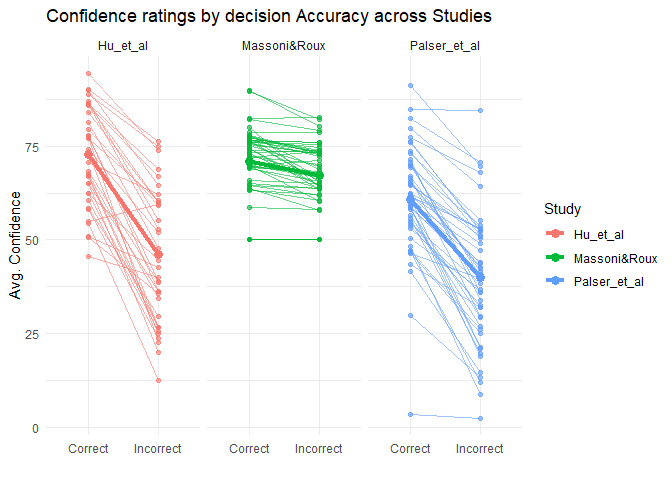
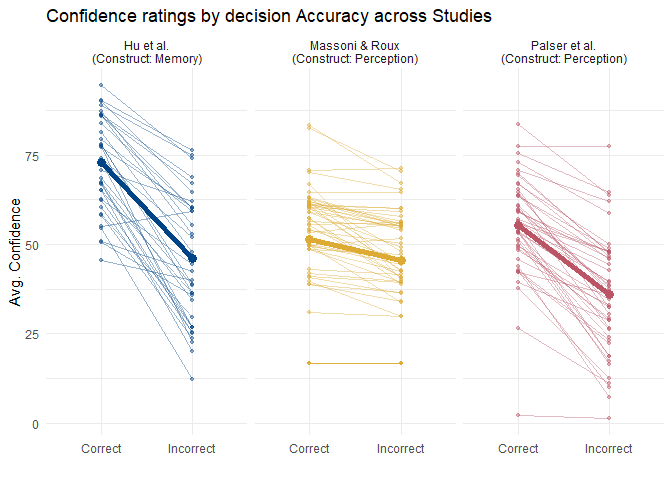
revised solution

diff --git a/Projects/JakobRaatschen/ArminBurkhardt.md b/Projects/JakobRaatschen/ArminBurkhardt.md
@@ -1,86 +1,15 @@
 ## Cleaning the data
 
-### Study 1
+The data for all 3 studies is cleaned, Confidences are rescaled and the
+data is merged into new dataframes.
 
-    massoni <- massoni %>%
-      filter(Subj_idx >= 67, Subj_idx <= 120) %>%                    # second study only
-      mutate(Study_id = "Massoni&Roux")                              # add study_id column
-
-    # calculate average performance per subject
-    massoni_subj_perf <- massoni %>%
-      group_by(Subj_idx, Study_id) %>%                               # group by subject and keep study_id
-      summarise(average_performance = mean(Accuracy, na.rm = TRUE))  # calc average performance
-
-### Study 2
-
-    palser <- palser %>%
-      drop_na() %>%                                                  # exclude responses with exceeded deadline
-      filter(Condition == "Baseline") %>%                            # following the suggestion to make this study more comparable to the others
-      mutate(Study_id = "Palser_et_al",                              # add study_id column
-             Accuracy = ifelse(Response == Stimulus, 1, 0))          # add accuracy column
-
-    # again calculate average performance per subject, same as above
-    palser_subj_perf <- palser %>%
-      group_by(Subj_idx, Study_id) %>%
-      summarise(average_performance = mean(Accuracy, na.rm = TRUE))
-
-### Study 3
-
-    # following a similar pattern as above:
-    hu <- hu %>%
-      mutate(Study_id = "Hu_et_al")
-
-    hu_subj_perf <- hu %>%
-      group_by(Subj_idx, Study_id) %>%
-      summarise(average_performance = mean(Accuracy, na.rm = TRUE))
-
-### All studies
-
-Rescaling of the confidence ratings to 0 to 100:
-
-    massoni <- massoni %>%
-      mutate(Confidence = Confidence * 100)
-
-    # palser is already scaled well, except for the bounds 0 and 99, but Ill just ignore that
-
-    hu <- hu %>%
-      mutate(Confidence = (Confidence - 1) / 5 * 100) # rescale from 1-6 to 0-100
-
-### Merging the datasets to aggregated dataframes:
-
-Firstly, shift subject indices to avoid overlap:
-
-    palser <- palser %>%  
-      mutate(Subj_idx = Subj_idx + max(massoni$Subj_idx)) # shift by largest massoni subject index
-
-    hu <- hu %>%
-      mutate(Subj_idx = Subj_idx + max(palser$Subj_idx))  # shift by largest palser subject index
-
-Now merge the datasets into two new dataframes:
-
-    select_relevant <- function(df) {
-      df %>%
-        select(Subj_idx, Study_id, Accuracy, Confidence)
-    }
-
-    confidence <- bind_rows(
-      select_relevant(massoni),
-      select_relevant(palser),
-      select_relevant(hu)
-    )
-
-    performance <- bind_rows(
-      massoni_subj_perf,
-      palser_subj_perf,
-      hu_subj_perf
-    )
-
-resulting in these two final dataframes:
+Resulting in these two final dataframes:
 
 <table>
 <thead>
 <tr>
 <th style="text-align: right;">Subj_idx</th>
+<th style="text-align: right;">Orig_idx</th>
 <th style="text-align: left;">Study_id</th>
 <th style="text-align: right;">Accuracy</th>
 <th style="text-align: right;">Confidence</th>
@@ -89,39 +18,45 @@ resulting in these two final dataframes:
 <tbody>
 <tr>
 <td style="text-align: right;">67</td>
+<td style="text-align: right;">67</td>
 <td style="text-align: left;">Massoni&amp;Roux</td>
 <td style="text-align: right;">1</td>
-<td style="text-align: right;">80</td>
+<td style="text-align: right;">66.66667</td>
 </tr>
 <tr>
+<td style="text-align: right;">67</td>
 <td style="text-align: right;">67</td>
 <td style="text-align: left;">Massoni&amp;Roux</td>
 <td style="text-align: right;">0</td>
-<td style="text-align: right;">85</td>
+<td style="text-align: right;">75.00000</td>
 </tr>
 <tr>
 <td style="text-align: right;">67</td>
-<td style="text-align: left;">Massoni&amp;Roux</td>
-<td style="text-align: right;">1</td>
-<td style="text-align: right;">80</td>
-</tr>
-<tr>
 <td style="text-align: right;">67</td>
 <td style="text-align: left;">Massoni&amp;Roux</td>
 <td style="text-align: right;">1</td>
-<td style="text-align: right;">75</td>
+<td style="text-align: right;">66.66667</td>
 </tr>
 <tr>
+<td style="text-align: right;">67</td>
+<td style="text-align: right;">67</td>
+<td style="text-align: left;">Massoni&amp;Roux</td>
+<td style="text-align: right;">1</td>
+<td style="text-align: right;">58.33333</td>
+</tr>
+<tr>
+<td style="text-align: right;">67</td>
 <td style="text-align: right;">67</td>
 <td style="text-align: left;">Massoni&amp;Roux</td>
 <td style="text-align: right;">0</td>
-<td style="text-align: right;">80</td>
+<td style="text-align: right;">66.66667</td>
 </tr>
 <tr>
 <td style="text-align: right;">67</td>
+<td style="text-align: right;">67</td>
 <td style="text-align: left;">Massoni&amp;Roux</td>
 <td style="text-align: right;">1</td>
-<td style="text-align: right;">75</td>
+<td style="text-align: right;">58.33333</td>
 </tr>
 </tbody>
 </table>
@@ -130,6 +65,7 @@ resulting in these two final dataframes:
 <thead>
 <tr>
 <th style="text-align: right;">Subj_idx</th>
+<th style="text-align: right;">Orig_idx</th>
 <th style="text-align: left;">Study_id</th>
 <th style="text-align: right;">average_performance</th>
 </tr>
@@ -137,30 +73,36 @@ resulting in these two final dataframes:
 <tbody>
 <tr>
 <td style="text-align: right;">67</td>
+<td style="text-align: right;">67</td>
 <td style="text-align: left;">Massoni&amp;Roux</td>
 <td style="text-align: right;">0.58</td>
 </tr>
 <tr>
+<td style="text-align: right;">68</td>
 <td style="text-align: right;">68</td>
 <td style="text-align: left;">Massoni&amp;Roux</td>
 <td style="text-align: right;">0.66</td>
 </tr>
 <tr>
 <td style="text-align: right;">69</td>
+<td style="text-align: right;">69</td>
 <td style="text-align: left;">Massoni&amp;Roux</td>
 <td style="text-align: right;">0.54</td>
 </tr>
 <tr>
+<td style="text-align: right;">70</td>
 <td style="text-align: right;">70</td>
 <td style="text-align: left;">Massoni&amp;Roux</td>
 <td style="text-align: right;">0.70</td>
 </tr>
 <tr>
 <td style="text-align: right;">71</td>
+<td style="text-align: right;">71</td>
 <td style="text-align: left;">Massoni&amp;Roux</td>
 <td style="text-align: right;">0.60</td>
 </tr>
 <tr>
+<td style="text-align: right;">72</td>
 <td style="text-align: right;">72</td>
 <td style="text-align: left;">Massoni&amp;Roux</td>
 <td style="text-align: right;">0.66</td>
@@ -173,15 +115,10 @@ resulting in these two final dataframes:
 Firstly, filter out all subjects that have only correct or only
 incorrect responses.
 
-    subjects_to_include <- confidence %>%
-      group_by(Subj_idx) %>%
-      summarise(n_correct   = sum(Accuracy == 1),
-                n_incorrect = sum(Accuracy == 0)) %>%
-      filter(n_correct > 0, n_incorrect > 0) %>%
-      pull(Subj_idx)
-
     confidence_filtered <- confidence %>%
-      filter(Subj_idx %in% subjects_to_include)
+      group_by(Subj_idx) %>%
+      filter(sum(Accuracy == 1) > 0, sum(Accuracy == 0) > 0) %>%
+      ungroup()
 
 Now the means per subject and study can be calculated:
 
@@ -191,12 +128,12 @@ Now the means per subject and study can be calculated:
 
 
     confidence_means_individual <- confidence_filtered %>%
-      group_by(Subj_idx, Study_id, Label) %>%
+      group_by(Subj_idx, Study_id, Label, Title) %>%
       summarise(mean_conf = mean(Confidence, na.rm = TRUE))
 
 
     confidence_means_group <- confidence_filtered %>%
-      group_by(Study_id, Label) %>%
+      group_by(Study_id, Label, Title) %>%
       summarise(mean_conf = mean(Confidence, na.rm = TRUE))
 
 Final plot:
@@ -204,29 +141,30 @@ Final plot:
     ggplot() +
       # individual lines
       geom_line(data = confidence_means_individual, 
-                aes(x = Label, y = mean_conf, group = Subj_idx, color = Study_id), 
-                alpha = 0.6) +  # slightly transparent to make group lines stand out more
+                aes(x = Label, y = mean_conf, group = Subj_idx, color = Title), 
+                alpha = 0.4) +  # slightly transparent to make group lines stand out more
       # individual points
       geom_point(data = confidence_means_individual, 
-                 aes(x = Label, y = mean_conf, color = Study_id), 
-                 alpha = 0.6) +
+                 aes(x = Label, y = mean_conf, color = Title), 
+                 alpha = 0.4,
+                 size = 1) +
       # group lines
       geom_line(data = confidence_means_group, 
-                aes(x = Label, y = mean_conf, group = Study_id, color = Study_id), 
-                linewidth = 1.5) +
+                aes(x = Label, y = mean_conf, group = Study_id, color = Title), 
+                linewidth = 2) +
       # group points
       geom_point(data = confidence_means_group, 
-                 aes(x = Label, y = mean_conf, color = Study_id), 
+                 aes(x = Label, y = mean_conf, color = Title), 
                  size = 3) +
-      facet_wrap(~ Study_id) +  # panel for each study
+      facet_wrap(~ Title) +  # panel for each study
       theme_minimal() +
       labs(
         title = "Confidence ratings by decision Accuracy across Studies",
         x = "",
         y = "Avg. Confidence",
-        color = "Study"
       ) +
-      theme(legend.position = "right")
+      theme(legend.position = "none") + 
+      scale_color_manual(values = highcontrast(3))
 
 ![](ArminBurkhardt_files/figure-markdown_strict/viz-1-1.png)
 
@@ -238,19 +176,20 @@ average performance accuracy across the three studies (violin: actual
 distribution of the data, boxplot: median and range, jitter: individual
 data points spread out)
 
-    ggplot(performance, aes(x = Study_id, y = average_performance, fill = Study_id)) +
-      geom_violin(alpha = 0.6, trim = FALSE) +
+    ggplot(performance, aes(x = Title, y = average_performance, fill = Study_id)) +
+      geom_violin(alpha = 0.5, trim = FALSE) +
       # boxplot with outliers hidden as jitter also shows them
       geom_boxplot(width = 0.1, fill = "white", outlier.shape = NA) +
       # each individual participants performance score (jittered as in the drawing)
-      geom_jitter(width = 0.1, alpha = 0.6, size = 1.5, color = "darkgray") +
+      geom_jitter(width = 0.1, alpha = 1, size = 2, aes(fill = Study_id), color = "black", shape = 21) +
       theme_minimal() +
       labs(
         title = "Average performance accuracy across studies",
         x = "Study",
         y = "Performance Accuracy"
       ) +
-      theme(legend.position = "none")
+      theme(legend.position = "none") +
+      scale_fill_manual(values = highcontrast(3))
 
 ![](ArminBurkhardt_files/figure-markdown_strict/viz-2-1.png)
 
